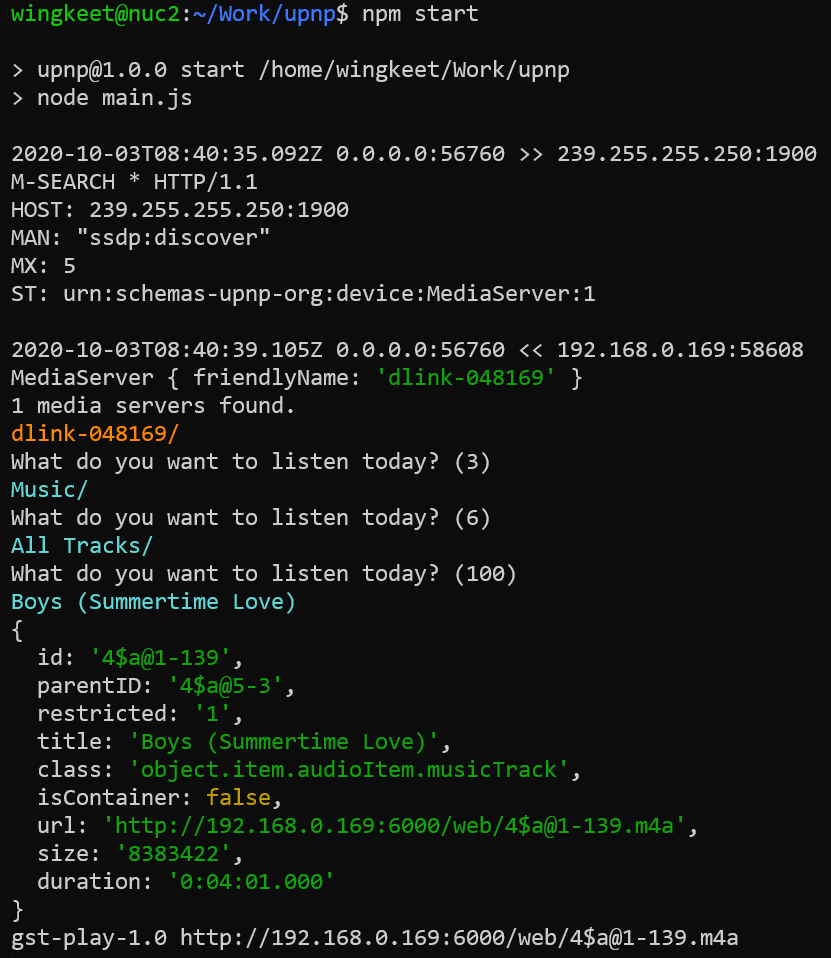
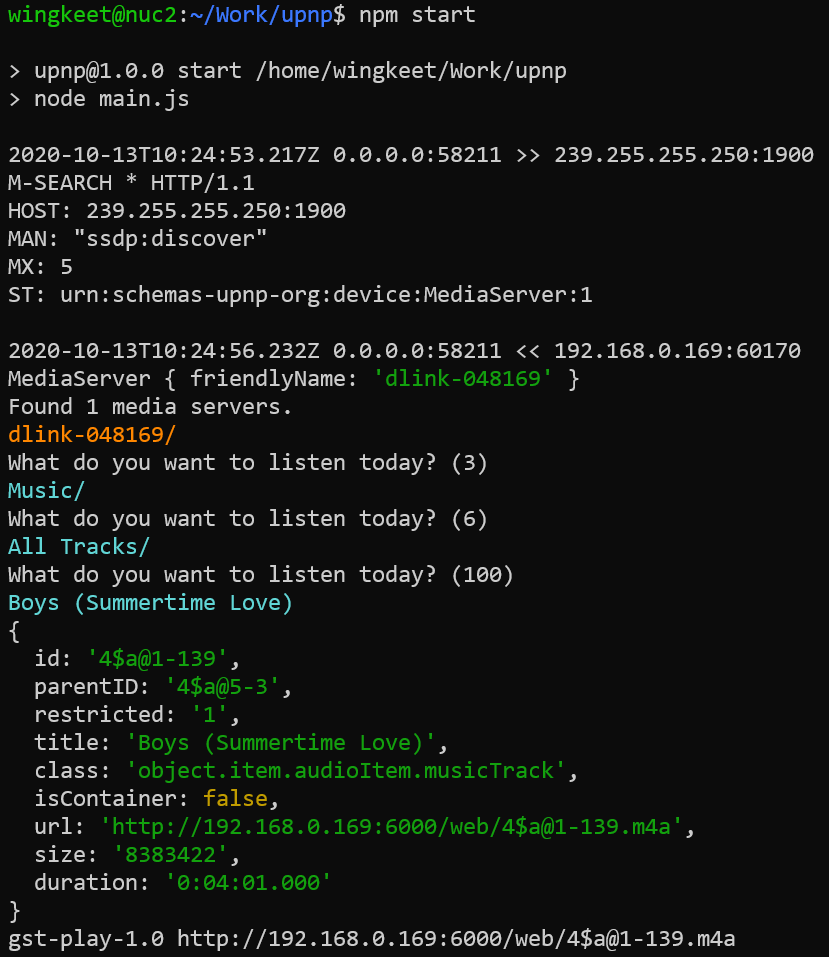
Change output message

diff --git a/main.js b/main.js
@@ -94,7 +94,7 @@ function main() {
         console.log(mediaServer)
     })
     watcher.on('end', () => {
-        console.log(`${mediaServers.length} media servers found.`)
+        console.log(`Found ${mediaServers.length} media servers.`)
         if (mediaServers.length > 0) {
             browse(mediaServers).catch(err => console.error(err))
         }
